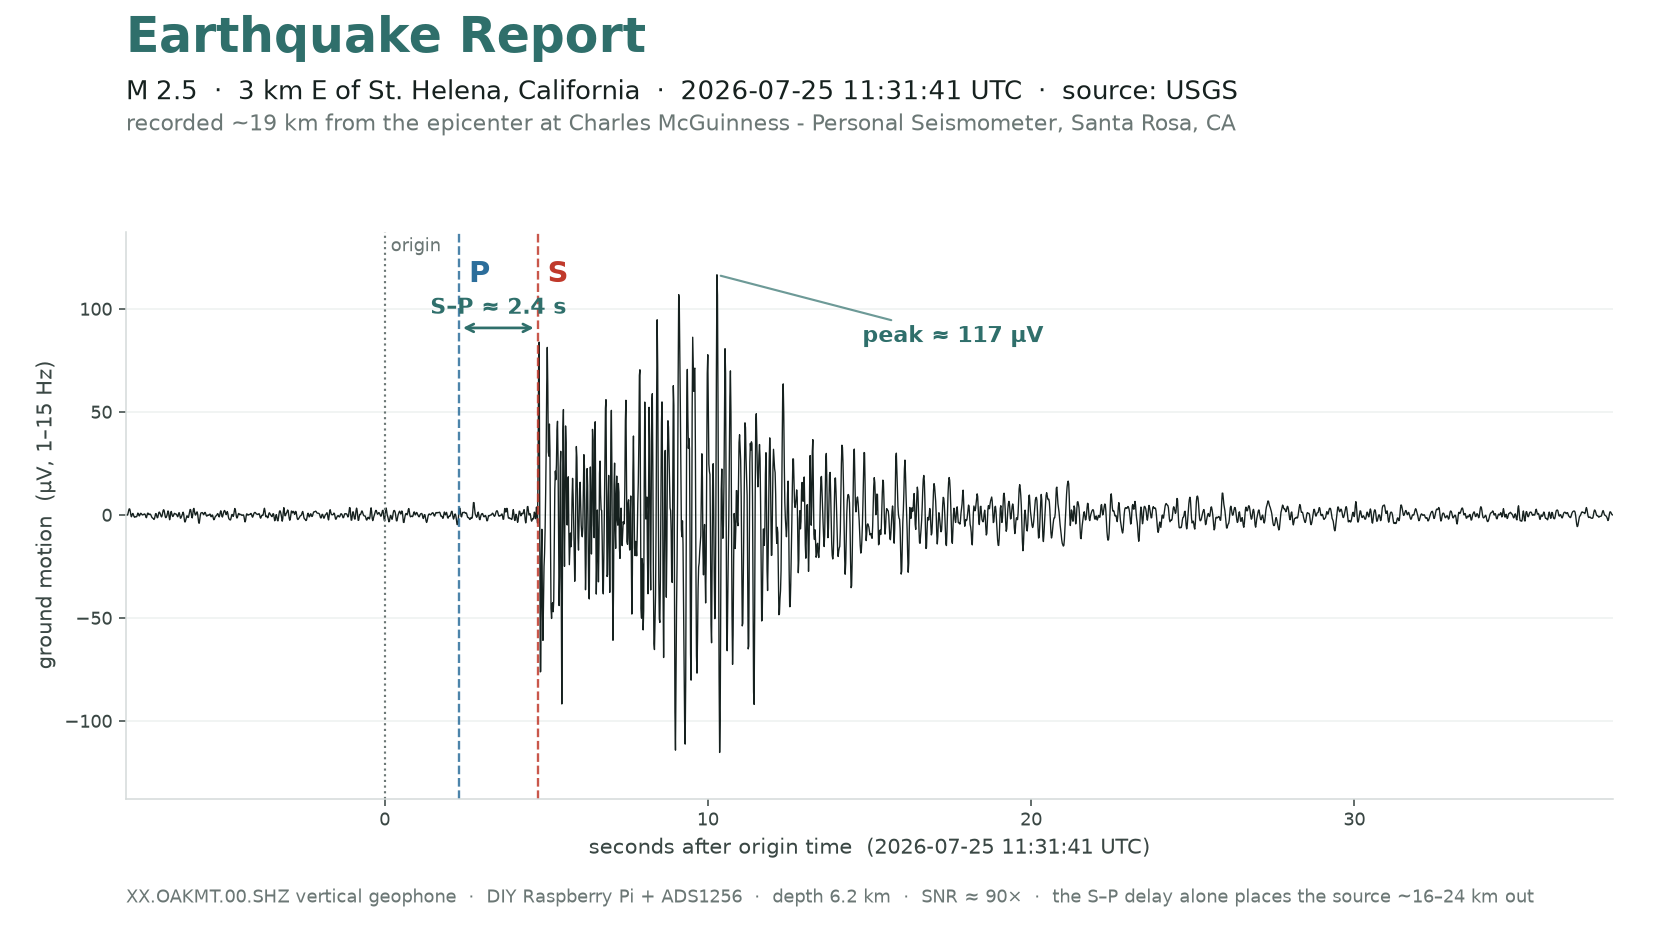
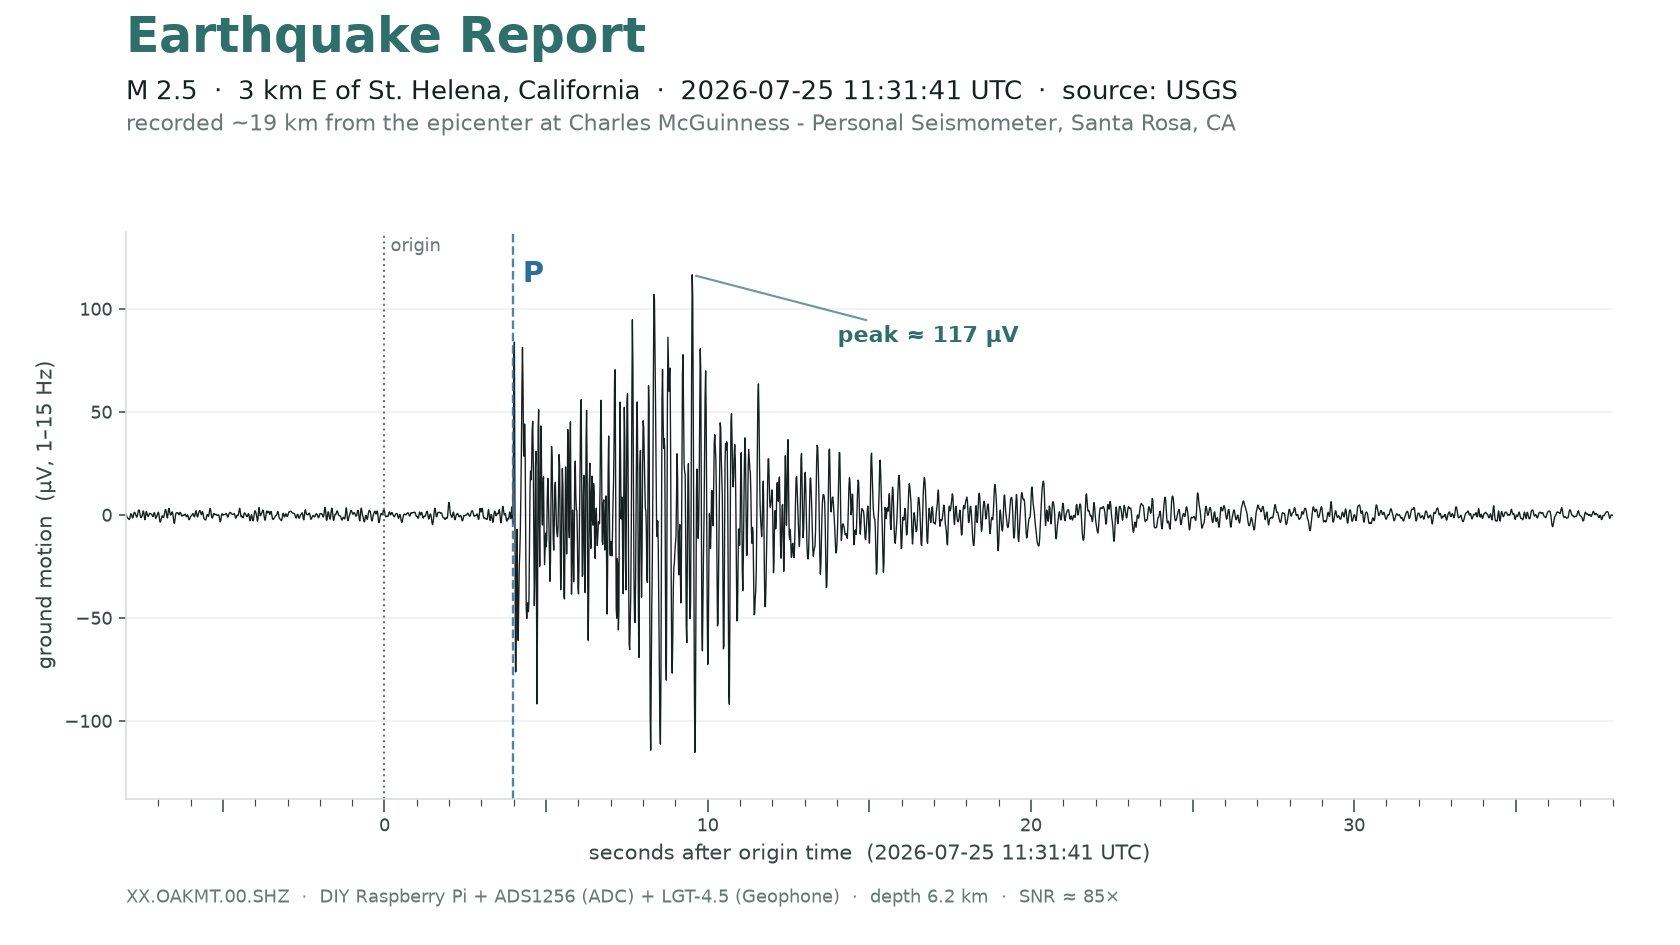
quake_share: honest phase marking — P first-arrival only, no predict-then-confirm S-P
Drop the emergent-P/S-P-distance claim (circular). Mark only pickable phases; tool no longer predicts arrivals from the catalog distance. Add per-second x ticks (elongated at 5 s), precise origin, full device label.

diff --git a/analysis/quake_share.py b/analysis/quake_share.py
@@ -12,10 +12,14 @@ Runs on the Mac against the analysis venv (obspy + matplotlib):
         --p 2.0 --s 4.4 --out eq_sthelena.png
 
 Phase picks: --p/--s are the P and S onsets in SECONDS AFTER ORIGIN, eyeballed
-off the trace (the honest, trace-matching way). Omit them and the tool falls back
-to arrivals PREDICTED from distance (Vp=6.0, Vs=3.46 km/s), labeled as such. The
-peak amplitude is always measured from the data. Distance is computed from the
-station and event coordinates (haversine + depth); --dist-km overrides.
+off the trace. Pass ONLY the ones you can actually see. The tool draws just those and
+does NOT predict arrivals from the catalog distance -- predicting P/S from a distance
+and then "deriving" that distance back from them confirms nothing (it is circular).
+The S-P bracket appears only when BOTH picks are given. For a small emergent local
+event the P is usually buried in noise (not pickable), so typically pass only --s; the
+distance shown is then the catalog's, not something we claim to have measured. Peak
+amplitude is always measured. Distance is computed from the station and event
+coordinates (haversine + depth); --dist-km overrides.
 
 The day-file for an event can be pulled from the station, e.g.:
     scp seismo.local:'~/seismo/data/XX.OAKMT.00.SHZ.D.YYYY.JJJ.mseed' .
@@ -73,6 +77,7 @@ def main():
     import matplotlib
     matplotlib.use("Agg")
     import matplotlib.pyplot as plt
+    from matplotlib.ticker import FuncFormatter, MultipleLocator
 
     origin = UTCDateTime(args.origin)
     st = obspy.read(args.mseed, starttime=origin - args.pre, endtime=origin + args.post)
@@ -97,10 +102,10 @@ def main():
     if epi is not None:
         hypo = math.hypot(epi, args.depth_km) if args.depth_km else epi
 
-    # phase picks: observed (--p/--s) preferred, else predicted from distance
-    p_t, s_t, predicted = args.p, args.s, False
-    if (p_t is None or s_t is None) and hypo is not None:
-        p_t, s_t, predicted = hypo / VP, hypo / VS, True
+    # phase picks: ONLY what was explicitly measured off the trace. Deliberately no
+    # predicting arrivals from the catalog distance -- a graphic that predicts P/S from
+    # a distance and then "derives" that distance back from them confirms nothing.
+    p_t, s_t = args.p, args.s
 
     # --- figure ---
     plt.rcParams.update({"font.family": "DejaVu Sans", "axes.edgecolor": "#d5dbda"})
@@ -115,16 +120,16 @@ def main():
     ax.set_xlim(t[0], t[-1])
     ax.text(0, ylim * 0.98, " origin", color=MUT, fontsize=9, va="top")
 
-    if p_t is not None and s_t is not None:
-        for tt, lab, col in [(p_t, "P", BLUE), (s_t, "S", RED)]:
-            ax.axvline(tt, color=col, ls="--", lw=1.2, alpha=0.85)
-            ax.text(tt, ylim * 0.90, f" {lab}", color=col, fontsize=15, fontweight="bold", va="top")
+    for tt, lab, col in [(p_t, "P", BLUE), (s_t, "S", RED)]:
+        if tt is None:
+            continue
+        ax.axvline(tt, color=col, ls="--", lw=1.2, alpha=0.85)
+        ax.text(tt, ylim * 0.90, f" {lab}", color=col, fontsize=15, fontweight="bold", va="top")
+    if p_t is not None and s_t is not None:          # S-P bracket only with BOTH picks
         yb = ylim * 0.66
         ax.annotate("", xy=(p_t, yb), xytext=(s_t, yb),
                     arrowprops=dict(arrowstyle="<->", color=TEAL, lw=1.4))
-        sp = s_t - p_t
-        tag = "predicted " if predicted else ""
-        ax.text((p_t + s_t) / 2, yb + ylim * 0.05, f"{tag}S–P ≈ {sp:.1f} s",
+        ax.text((p_t + s_t) / 2, yb + ylim * 0.05, f"S–P ≈ {s_t - p_t:.1f} s",
                 color=TEAL, fontsize=11.5, ha="center", fontweight="bold")
 
     ax.annotate(f"peak ≈ {abs(pk):.0f} µV", xy=(tpk, pk),
@@ -134,6 +139,13 @@ def main():
                   fontsize=11, color="#3a4744")
     ax.set_ylabel("ground motion  (µV, 1–15 Hz)", fontsize=11, color="#3a4744")
     ax.tick_params(colors="#3a4744", labelsize=9)
+    # x ticks: every 1 s, elongated at 5 s multiples, labelled only at 10 s
+    ax.xaxis.set_minor_locator(MultipleLocator(1))
+    ax.xaxis.set_major_locator(MultipleLocator(5))
+    ax.xaxis.set_major_formatter(
+        FuncFormatter(lambda v, _p: f"{int(round(v))}" if round(v) % 10 == 0 else ""))
+    ax.tick_params(axis="x", which="minor", length=3.5, color="#3a4744")
+    ax.tick_params(axis="x", which="major", length=6.5, color="#3a4744")
     for s in ("top", "right"):
         ax.spines[s].set_visible(False)
     ax.grid(axis="y", color="#eef1f0", lw=0.8)
@@ -149,7 +161,7 @@ def main():
              fontsize=11.5, color=MUT)
 
     seed = f"{tr.stats.network}.{tr.stats.station}.{tr.stats.location}.{tr.stats.channel}"
-    bits = [f"{seed} vertical geophone", "DIY Raspberry Pi + ADS1256"]
+    bits = [seed, "DIY Raspberry Pi + ADS1256 (ADC) + LGT-4.5 (Geophone)"]
     if args.depth_km:
         bits.append(f"depth {args.depth_km:g} km")
     nrms = float(np.sqrt(np.mean(uv[t < -1] ** 2))) if np.any(t < -1) else 0.0

diff --git a/STATUS.md b/STATUS.md
@@ -5,28 +5,34 @@ _Last updated: 2026-07-25 (UTC)_
 ## 🎉 FIRST CONFIRMED EARTHQUAKE — M2.5, 3 km E of St. Helena (2026-07-25)
 
 The station caught its first confirmed local earthquake — the reason it exists.
-USGS: **M2.5, 2026-07-25 11:31:41 UTC, 38.507°N 122.435°W, depth 6.2 km**
+USGS: **M2.5, 2026-07-25 11:31:41.760 UTC, 38.507°N 122.435°W, depth 6.2 km**
 (~19 km hypocentral from Oakmont, on the Maacama/Rodgers Creek system).
 
 - **STA/LTA triggered 11:31:45 UTC** — 4 s after origin. **peak_ratio 645**
   (threshold 4.0; every prior trigger was a false positive under 60), **peak
   ~110–125 µV** vs ~1 µV ambient (**SNR ~100×**), 24 s duration.
-- **Waveform (1–15 Hz):** flat noise → **emergent P ~11:31:43** → **S-wave hammer
-  11:31:45** (jump to ~117 µV) → peak ~126 µV at 11:31:49 → coda to noise by
-  ~11:32:12. Textbook local event.
-- **Single-station distance check:** **S–P ≈ 2 s → ~16–19 km**, consistent with
-  the catalog's ~19 km. Our own timing independently reproduces the distance —
-  this is a *calibrated* detection.
+- **Waveform (1–15 Hz):** flat noise → sharp **first arrival (P) at 11:31:45.7**
+  (jump to ~117 µV, matching the catalog-predicted P) → peak ~126 µV → coda to noise
+  by ~11:32:12. Textbook local event.
+- **Single-station limit (honesty note):** the **S is buried** — for a close event
+  P and S are only ~2.4 s apart and merge into one burst, so S sits in the coda, not
+  separately pickable. There is **no independent single-station S–P or distance**;
+  the ~19 km is the catalog's. An earlier graphic drew an emergent "P" near the noise
+  floor (a +2 s candidate implies an impossible ~10 km/s P velocity) plus an "S–P →
+  distance confirms the catalog" annotation — that was **circular** and has been
+  removed. What confirms it's a quake is the *network* (BK.CMB, CE.68327 saw it), not
+  our single station.
 - **This is the calibration reference** the detector/character work was missing
   (`dashboard/CHARACTER.md`: "no confirmed event yet to calibrate against"). Now
   there is ground truth: known M, known distance, clean recording.
 - Recorder healthy throughout; the concurrent 24 h UDP probe did **not** perturb
   acquisition. Day-file: `data/XX.OAKMT.00.SHZ.D.2026.206.mseed` (event ~11:31:41 UTC).
 - **Shareable image tool:** `analysis/quake_share.py` — parameterized per event (pass
-  the catalog facts; it auto-computes distance + the S–P story and renders a labeled
-  hero PNG). This event: `--origin 2026-07-25T11:31:41 --mag 2.5 --event-lat 38.507
-  --event-lon -122.435 --depth-km 6.2 --p 2.3 --s 4.73` (P/S onsets measured off the
-  envelope). Output cataloged in `reports/2026-07-25-m2.5-st-helena.png`.
+  the catalog facts; measures peak/SNR, marks only phases you can actually pick, and
+  renders a labeled hero PNG; it does NOT predict arrivals from the catalog distance —
+  predict-then-confirm is circular). This event: `--origin 2026-07-25T11:31:41.760
+  --mag 2.5 --event-lat 38.507 --event-lon -122.435 --depth-km 6.2 --p 3.97` (P = the
+  measured first arrival; S not pickable). Output: `reports/2026-07-25-m2.5-st-helena.png`.
 
 ## 🔬 IN PROGRESS: 24 h UDP loss probe, station→pi5 (started 2026-07-24 ~18:12 Z)
 

diff --git a/reports/README.md b/reports/README.md
@@ -14,21 +14,31 @@ kept here gets a descriptive name and is committed.
 
 ![M2.5 St. Helena](2026-07-25-m2.5-st-helena.png)
 
-- **USGS:** M2.5, 2026-07-25 11:31:41 UTC, 38.507°N 122.435°W, depth 6.2 km —
-  ~19 km hypocentral from Oakmont, on the Maacama/Rodgers Creek system.
-- Clean impulsive local event: emergent **P +2.3 s**, sharp **S +4.73 s**
-  (**S–P ≈ 2.4 s → ~19 km**, matching the catalog), **peak ~117 µV**, **SNR ~90×**.
-- STA/LTA fired at 11:31:45 with ratio 645 (every prior trigger a false positive
-  under 60).
-- Independently confirmed by nearby professional stations: **BK.CMB** (broadband,
-  185 km, S–P 22 s) and **CE.68327** Santa Rosa (strong-motion, S–P 3 s) — the S–P
-  ratios track the distance ratios, same event seen three ways.
+- **USGS:** M2.5, 2026-07-25 11:31:41.760 UTC, 38.507°N 122.435°W, depth 6.2 km —
+  ~19 km from Oakmont, on the Maacama/Rodgers Creek system. (Magnitude, location,
+  depth, origin time are the catalog's, not ours.)
+- **What we measured:** a clean impulsive local event — sharp **first arrival (P) at
+  +3.97 s** (11:31:45.73), matching the catalog-predicted P time (~+3.3 s) within our
+  clock + velocity-model slop; **peak ~117 µV** against a ~1.4 µV noise floor
+  (**SNR ~85×**), ~25 s coda. STA/LTA fired with ratio 645 (every prior trigger a
+  false positive under 60).
+- **What we can NOT do from one trace:** the **S** is buried — for a close event P
+  and S are only ~2.4 s apart and merge into one burst, so S sits in the coda, not
+  separately pickable. Therefore **no independent single-station S–P or distance** —
+  the ~19 km is the catalog's. (Earlier drafts drew a P near the noise floor and an
+  "S–P → distance confirms the catalog" annotation; that was circular and is gone.
+  A candidate spike at +2 s implies a ~10 km/s P velocity — too fast for a direct P —
+  so it's noise, not the P.)
+- **What actually confirms it's an earthquake:** other stations saw it. Nearby
+  professionals recorded it too — **BK.CMB** (broadband, ~185 km) and **CE.68327**
+  Santa Rosa (Kinemetrics EpiSensor strong-motion) — and their multi-station picks
+  are what locate and confirm the event. A single geophone detects; a network confirms.
 - Regenerate:
   ```
   analysis/.venv/bin/python analysis/quake_share.py \
     --mseed <XX.OAKMT.00.SHZ.D.2026.206.mseed> \
-    --origin 2026-07-25T11:31:41 --mag 2.5 \
+    --origin 2026-07-25T11:31:41.760 --mag 2.5 --source USGS \
     --place "3 km E of St. Helena, California" \
     --event-lat 38.507 --event-lon -122.435 --depth-km 6.2 \
-    --p 2.3 --s 4.73 --out reports/2026-07-25-m2.5-st-helena.png
+    --p 3.97 --out reports/2026-07-25-m2.5-st-helena.png
   ```
